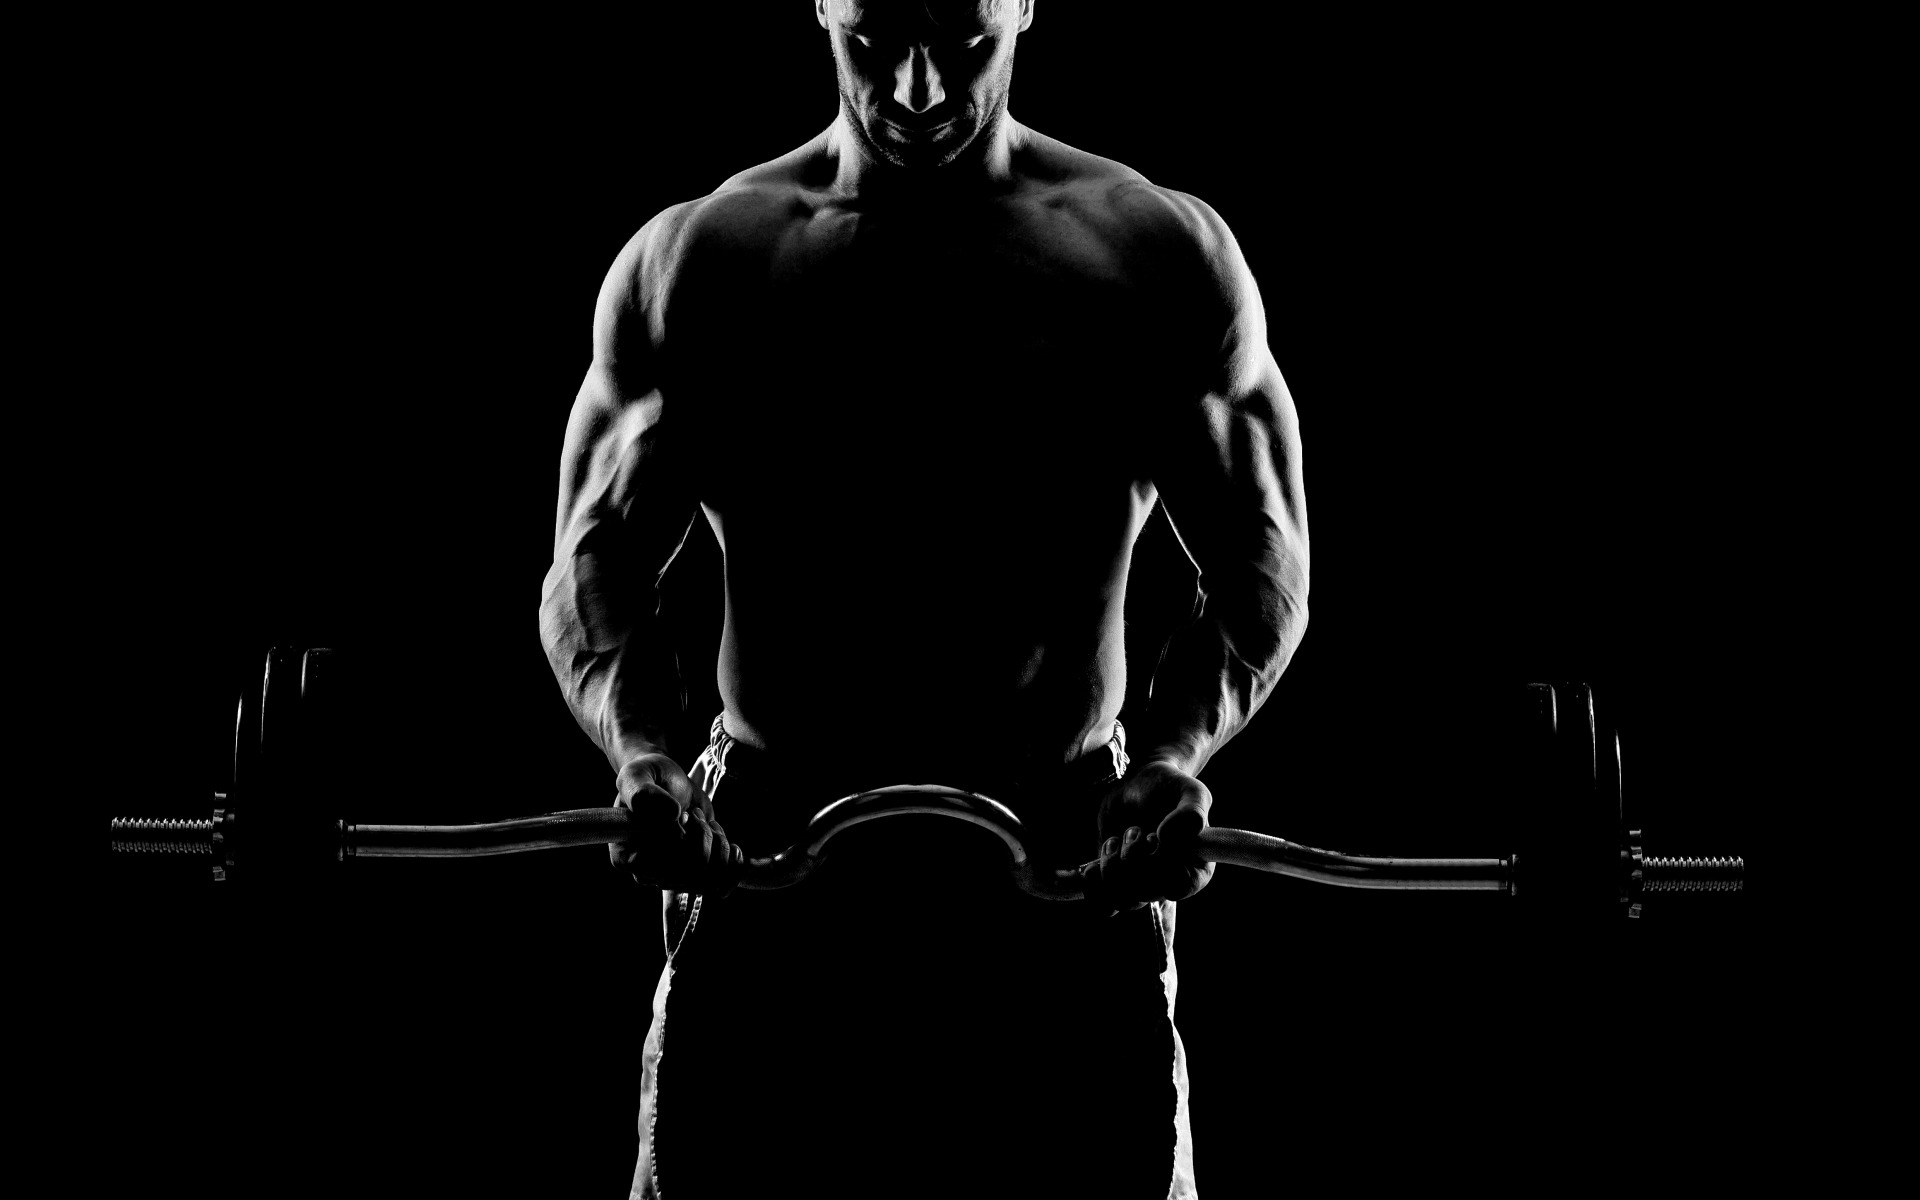
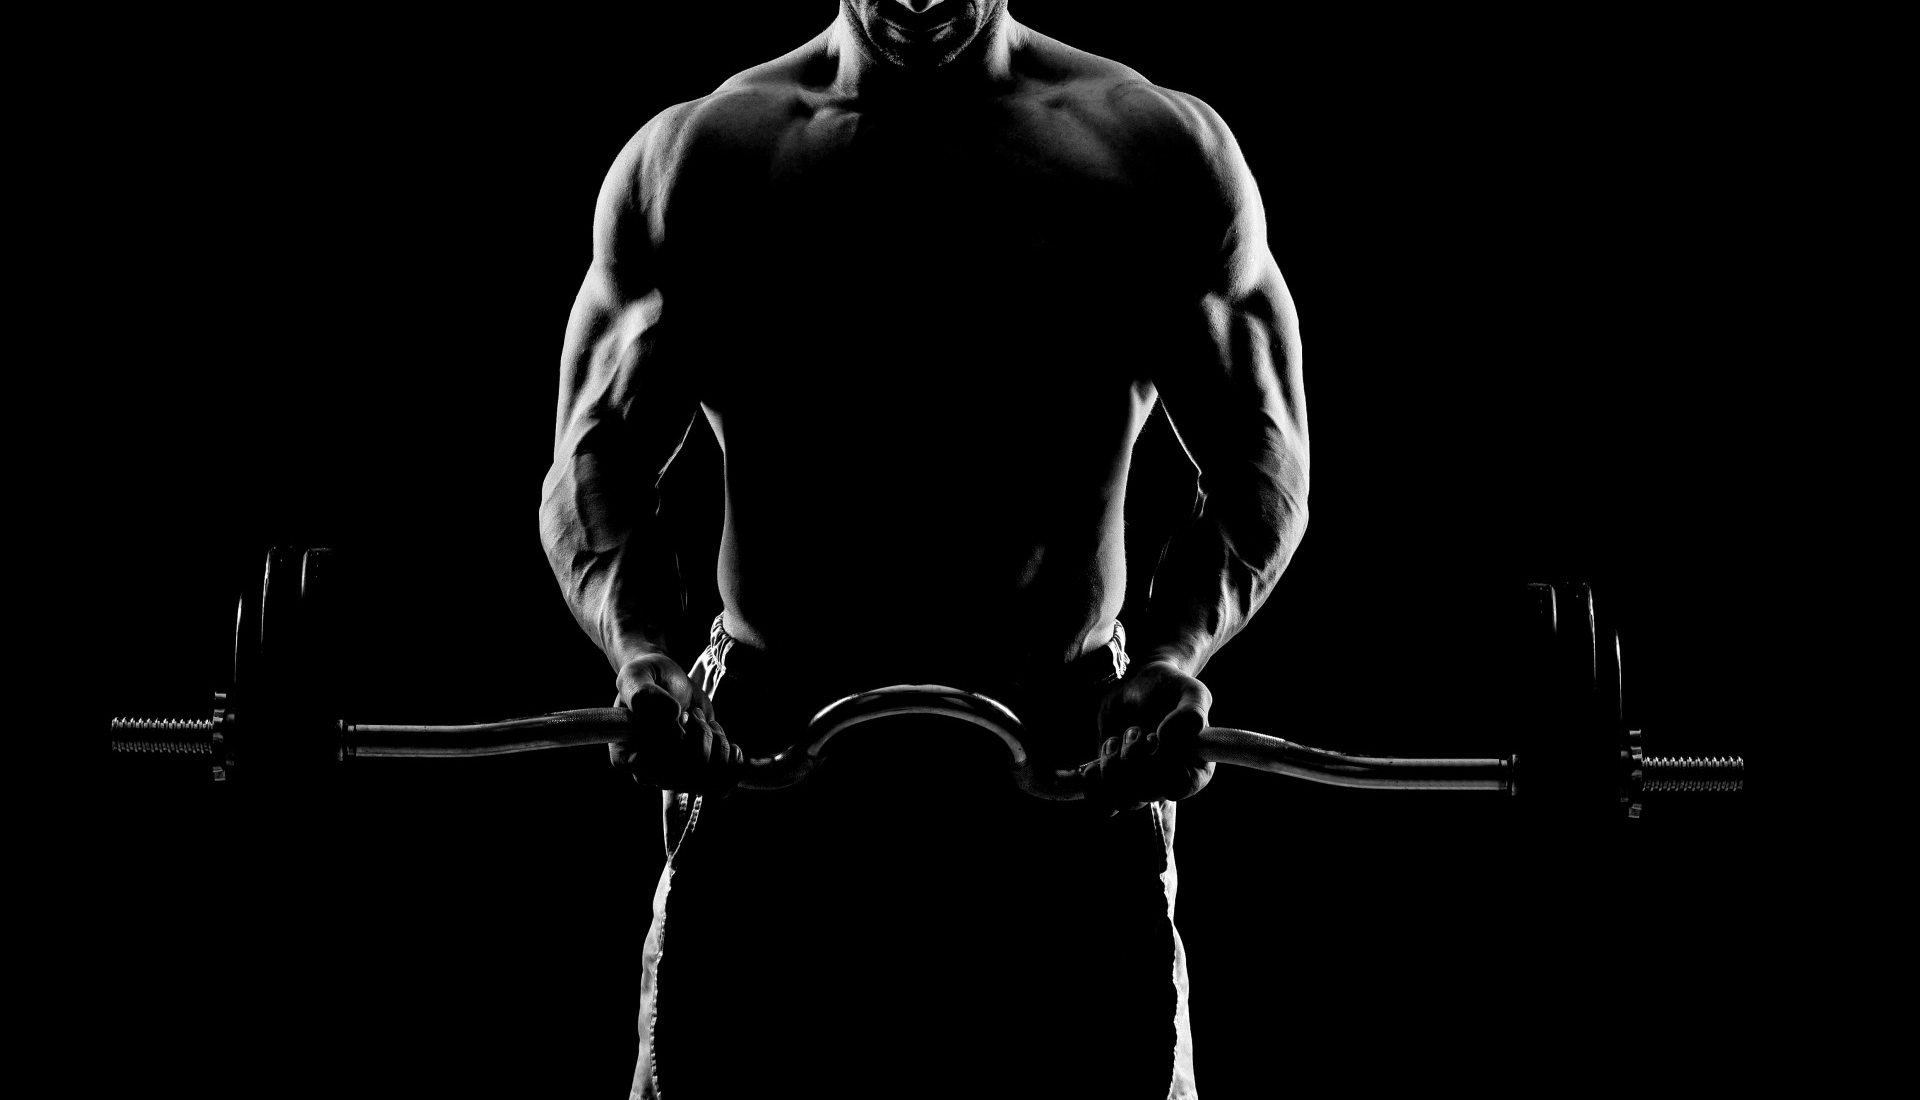
redesign

diff --git a/css/my.css b/css/my.css
@@ -1,6 +1,6 @@
 .bg-header {
   background-color: #151515;
-  background-image: url(../images/collagen/bodybuilder-new2.jpg);
+  background-image: url(../images/collagen/bodybuilder-new23.jpg);
   background-repeat: no-repeat;
   /*background-position:  -150px top;*/
   background-position: center;
@@ -122,7 +122,7 @@
   color: #fff;
 }
 .list-who-needs > li {
-  font-size: 20px;
+  font-size: 18px;
   margin-bottom: 15px;
 }
 
@@ -143,7 +143,7 @@
   color: #fff;
 }
 .list-benefist > li {
-  font-size: 20px;
+  font-size: 18px;
   margin-bottom: 15px;
 }
 
@@ -205,9 +205,6 @@
     top: -10%;
     left: 0;
   }
-  .section-about {
-    padding: 450px 0 60px !important;
-  }
   .bg-who-needs {
     background-color: #111;
     background-image: url(../images/collagen/body2.jpg);
@@ -245,13 +242,14 @@
     display: block;
     position: fixed;
     z-index: 2000;
-    right: 15px;
+    left: 15px;
   }
   .fixed-button {
     bottom: 20px;
   }
   .fixed-button2 {
-    bottom: 75px;
+    bottom: 20px;
+    left: 75px;
   }
   .fixed-button a,
   .fixed-button2 a {

diff --git a/css/style.css b/css/style.css
@@ -399,13 +399,13 @@ h6, .h6 {
 }
 .scrollup--fixed {
 	position: fixed;
-	right: 30px;
+	right: 15px;
 	bottom: -60px;
 	z-index: 999;
 	box-shadow: 0 2px 2px 0 rgba(0,0,0,.14), 0 1px 5px 0 rgba(0,0,0,.12), 0 3px 1px -2px rgba(0,0,0,.2);
 }
 .scrollup--fixed.show {
-	bottom: 30px;
+	bottom: 15px;
 }
 .scrollup i {
 	color: #fff;

diff --git a/index.php b/index.php
@@ -69,8 +69,8 @@
                 <h3 class="heading primary-color header-price fz-60 "> 9500〒</h3>
               </div>
               <div class="col-sm-5">
-                <img src="images/collagen/banka1.png" class="banka1">
-                <img src="images/collagen/banka2.png" class="banka2">
+                <!-- <img src="images/collagen/banka1.png" class="banka1"> -->
+                <img src="images/collagen/banka2.png" class="banka2- float-sm-right">
               </div>
             </div>
           </div>
@@ -92,6 +92,18 @@
 
       <?php unset($_SESSION['notifications']); ?>
 
+      <!-- CONTACT BUTTONS -->
+      <div class="fixed-button">
+        <a href="whatsapp://send?phone=+77759557171" target="_top" data-attr="whatsapp_call">
+          <img src="images/whatsapp-logo.png">
+        </a>
+      </div>
+      <div class="fixed-button2">
+        <a href="tel:+77759557171" target="_top" data-attr="phone">
+          <img src="images/phone-receiver.png">
+        </a>
+      </div>
+
       <!-- OUR PRODUCTS -->
       <section class="section pt-8 pb-8">
         <div class="container-fluid">
@@ -108,13 +120,9 @@
                   <a href="#">
                     <img class="img-responsive" src="images/collagen/banka1.png" alt="" />
                   </a>
-                  <div class="actions">
-                    <div class="action action-view-detail">
-
-                    </div>
-                    <div class="action action-add-to-cart">
-                      <a href="#" class="button-add-to-cart" data-toggle="modal" data-target="#appModal">Заказать</a>
-                    </div>
+                  <!-- <div class="actions"> <div class="action action-view-detail"> </div> <div class="action action-add-to-cart"> <a href="#" class="button-add-to-cart" data-toggle="modal" data-target="#appModal">Заказать</a> </div> </div> -->
+                  <div class="text-center">
+                    <button type="button" class="btn-app mt-2" data-toggle="modal" data-target="#appModal">Заказть</button>
                   </div>
                 </div>
                 <div class="product-info">
@@ -131,13 +139,9 @@
                   <a href="#">
                     <img class="img-responsive" src="images/collagen/banka2.png" alt="" />
                   </a>
-                  <div class="actions">
-                    <div class="action action-view-detail">
-
-                    </div>
-                    <div class="action action-add-to-cart">
-                      <a href="#" class="button-add-to-cart" data-toggle="modal" data-target="#appModal">Заказать</a>
-                    </div>
+                  <!-- <div class="actions"> <div class="action action-view-detail"> </div> <div class="action action-add-to-cart"> <a href="#" class="button-add-to-cart" data-toggle="modal" data-target="#appModal">Заказать</a> </div> </div> -->
+                  <div class="text-center">
+                    <button type="button" class="btn-app mt-2" data-toggle="modal" data-target="#appModal">Заказть</button>
                   </div>
                 </div>
                 <div class="product-info">
@@ -154,13 +158,9 @@
                   <a href="#">
                     <img class="img-responsive" src="images/collagen/banka1.png" alt="" />
                   </a>
-                  <div class="actions">
-                    <div class="action action-view-detail">
-
-                    </div>
-                    <div class="action action-add-to-cart">
-                      <a href="#" class="button-add-to-cart" data-toggle="modal" data-target="#appModal">Заказать</a>
-                    </div>
+                  <!-- <div class="actions"> <div class="action action-view-detail"> </div> <div class="action action-add-to-cart"> <a href="#" class="button-add-to-cart" data-toggle="modal" data-target="#appModal">Заказать</a> </div> </div> -->
+                  <div class="text-center">
+                    <button type="button" class="btn-app mt-2" data-toggle="modal" data-target="#appModal">Заказть</button>
                   </div>
                 </div>
                 <div class="product-info">
@@ -177,13 +177,9 @@
                   <a href="#">
                     <img class="img-responsive" src="images/collagen/banka2.png" alt="" />
                   </a>
-                  <div class="actions">
-                    <div class="action action-view-detail">
-
-                    </div>
-                    <div class="action action-add-to-cart">
-                      <a href="#" class="button-add-to-cart" data-toggle="modal" data-target="#appModal">Заказать</a>
-                    </div>
+                  <!-- <div class="actions"> <div class="action action-view-detail"> </div> <div class="action action-add-to-cart"> <a href="#" class="button-add-to-cart" data-toggle="modal" data-target="#appModal">Заказать</a> </div> </div> -->
+                  <div class="text-center">
+                    <button type="button" class="btn-app mt-2" data-toggle="modal" data-target="#appModal">Заказть</button>
                   </div>
                 </div>
                 <div class="product-info">
@@ -231,7 +227,7 @@
                   <img src="images/standarts/haccp2.png" class="img-responsive">
                 </li> -->
                 <li class="nav-item mb-2">
-                  <img src="images/standarts/kap3.png" class="img-responsive">
+                  <img src="images/standarts/kap2.png" class="img-responsive">
                 </li>
                 <li class="nav-item mb-2">
                   <img src="images/standarts/gmo2.png" class="img-responsive">
@@ -251,7 +247,7 @@
       <!-- WHY YOU DO YOU NEED COLLAGEN? -->
       <section class="section pt-8 pb-8 bg-black">
         <div class="container">
-          <h2 class="text-uppercase- text-center mb-5 fz-60 primary-color">Чем полезен коллаген?</h2>
+          <h2 class="text-uppercase fz-50- text-center mb-5 primary-color">Чем полезен коллаген?</h2>
           <div class="row">
             <div class="col-sm-6 col-lg-4">
               <div class="box-icon style-1 text-center">
@@ -353,7 +349,7 @@
         <div class="container">
           <div class="row pt-8 pb-8">
             <div class="col-sm-12 col-lg-8">
-              <h3 class="text-uppercase- fz-58 primary-color"> Для кого нужен коллаген?</h3>
+              <h2 class="text-uppercase fz-50- primary-color"> Для кого нужен коллаген?</h2>
               <ul class="list-who-needs">
                 <li><span class="primary-color"><i class="fa fa-check"></i></span> Говяжий коллаген предназначен в первую очередь для регулировки режима питания <span class="primary-color">спортсменов</span> при сильных нагрузках на связки и суставы, при которых наблюдается ускорение процессов обмена веществ</li>
                 <li><span class="primary-color"><i class="fa fa-check"></i></span> Способствует естественному сбросу лишнего веса при дозеровке от 25 гр. с небольшой физ. нагрузкой</li>
@@ -386,7 +382,7 @@
               </div>
             </div>
             <div class="col-sm-12 col-lg-6">
-              <h2 class="fz-52 primary-color">Преимущества нашего продукта</h2>
+              <h2 class="text-uppercase fz-50- primary-color">Преимущество нашего продукта</h2>
               <ul class="list-benefist">
                 <li><span class="primary-color"><i class="fa fa-check"></i></span> 100% натуральный, без ГМО</li>
                 <li><span class="primary-color"><i class="fa fa-check"></i></span> Витамины A, B12, D, C</li>
@@ -443,7 +439,7 @@
           <div class="container">
             <div class="row">
               <div class="col-sm-8 offset-sm-2">
-                <h3 class="text-uppercase- text-center heading mb-5 white primary-color">Отзывы</h3>
+                <h3 class="text-uppercase text-center fz-50- mb-5 white primary-color">Отзывы</h3>
               </div>
               <div class="col-sm-12">
                 <div class="testimonials-slider" data-auto-play="true" data-desktop="1" data-laptop="1" data-tablet="1" data-mobile="1">
@@ -490,7 +486,7 @@
           <div class="row">
             <div class="col-sm-12 col-lg-12">
               <div class="mt-3"></div>
-              <h3 class="heading white fz-50 fw-normal text-center"> Почему выгодно покупать у нас?</h3>
+              <h3 class="text-uppercase white fz-50- text-center"> Почему выгодно покупать у нас?</h3>
               <div class="mb-4"></div>
             </div>
             <div class="col-6 col-sm-4 col-lg-4">
@@ -550,8 +546,26 @@
         <div class="container">
           <div class="row">
             <div class="col-sm-12 col-md-6">
-              <h3 class="heading fw-normal fz-40 mb-8"> Часто задаваемые вопросы</h3>
+              <h3 class="text-uppercase heading fw-normal fz-40 mb-8"> Часто задаваемые вопросы</h3>
               <div id="accordion" class="accordion">
+                <div class="accordion-section">
+                  <div class="accordion-header" id="headingZero">
+                    <h6 class="accordion-title">
+                      <div data-toggle="collapse" data-target="#collapseZero" aria-expanded="true" aria-controls="collapseZero">Какие есть вкусы?</div>
+                      <span class="accordion-icon"></span>
+                    </h6>
+                  </div>
+                  <div id="collapseZero" class="collapse show" aria-labelledby="headingZero" data-parent="#accordion">
+                    <div class="accordion-content">
+                      <ul>
+                        <li>Ванильный</li>
+                        <li>Шоколадный</li>
+                        <li>Банановый</li>
+                        <li>Клубничный</li>
+                      </ul>
+                    </div>
+                  </div>
+                </div>
                 <div class="accordion-section">
                   <div class="accordion-header" id="headingOne">
                     <h6 class="accordion-title">
@@ -559,7 +573,7 @@
                       <span class="accordion-icon"></span>
                     </h6>
                   </div>
-                  <div id="collapseOne" class="collapse show" aria-labelledby="headingOne" data-parent="#accordion">
+                  <div id="collapseOne" class="collapse" aria-labelledby="headingOne" data-parent="#accordion">
                     <div class="accordion-content">Продолжительность курса составляет не менее 3 месяцев.
                     Кожа. Ногти. Волосы. Ожоги. Восстановление после операций. Продолжительность курса должна быть такова, чтобы клетки этих тканей успели смениться новыми.
                     Хрящевая ткань одна из самых медленно возобновляемых. Это объясняется тем, что хрящи не имеют прямого капиллярного питания из кровотока. Хрящи получают питательные вещества только посредством осмоса и диффузии при омовения его синовиальной жидкостью. Омовения происходит при движении сустава, поэтому для нормальной регенерации хрящей и восстановление всего сустава обязательно нужна умеренная физическая активность.
@@ -644,7 +658,7 @@
                     <div class="col-md-12">
                       <input type="tel" name="phone" placeholder="Введите номер телефона*" minlength="5" maxlength="20" value="" required>
                     </div>
-                    <div class="col-md-12">
+                    <div class="col-md-12 text-center">
                       <button type="submit" class="btn-app mt-3">Отправить</button>
                     </div>
                   </div>
@@ -678,21 +692,45 @@
     <footer class="footer bg-black">
       <div class="footer-inner">
         <div class="container">
-          <div class="row">
-            <div class="col-sm-4 col-lg-7 col-md-6">
-              <div class="branding__logo">
-                <a href="./">
-                  <img src="images/collagen/logo.png" alt="Biotic" class="main-logo" />
-                </a>
+          <div class="row  pb-6">
+            <div class="col-md-12">
+              <div class="text-center">
+                <h2 class="text-uppercase white">Свяжитесь с нами</h2>
+                <div class="mb-2"></div>
+                <div class="branding__logo">
+                  <a href="./">
+                    <img src="images/collagen/logo.png" alt="Biotic" class="main-logo" />
+                  </a>
+                </div>
+                <div class="mb-2"></div>
               </div>
-              <div class="mb-4"></div>
-              <p>Адрес: Республика Казахстан, город Алматы, улица Толе би 286/2, офис 401.</p>
-              <div class="mb-2"></div>
             </div>
-            <div class="col-sm-4 col-lg-7 col-md-6">
-              <div class="phones">
-                <a href="tel:+77759557171" target="_top" data-attr="phone"><i class="fa fa-phone"></i> 8 (775) 955 71 71</a>
-                <a href="whatsapp://send?phone=+77759557171" target="_top" data-attr="whatsapp_call"><i class="fa fa-whatsapp"></i> 8 (775) 955 71 71</a>
+            <div class="col-sm-4">
+              <div class="text-center-xs">
+                <h4 class="white mt-3"> Адрес</h4>
+                <div class="mb-3"></div>
+                <p class="fz-22">Республика Казахстан, город Алматы, улица Толе би 286/2, офис 401.</p>
+                <p class="heading fz-22 fw-normal"> <a class="primary-color" href="mailto:info@biotic.com">info@biotic.kz</a></p>
+              </div>
+            </div>
+            <div class="col-sm-4">
+              <div class="text-center-xs">
+                <h4 class="white mt-3"> Реквизиты</h4>
+                <div class="mb-3"></div>
+                <p class="fz-22">Компания &laquo;Biotic&raquo;</p>
+                <p>БИН: 880 820 301 961</p>
+                <p>ИИК: KZ1992618026D1071000</p>
+                <p>АО «Казкоммерцбанк» БИК: KZKOKZKX</p>
+              </div>
+            </div>
+            <div class="col-sm-4">
+              <div class="text-center-xs">
+                <h4 class="white mt-3"> Номера телефонов</h4>
+                <div class="mb-3"></div>
+                <div class="phones mx-auto">
+                  <a href="tel:+77759557171" target="_top" data-attr="phone"><i class="fa fa-phone"></i> 8 (775) 955 71 71</a>
+                  <a href="whatsapp://send?phone=+77759557171" target="_top" data-attr="whatsapp_call"><i class="fa fa-whatsapp"></i> 8 (775) 955 71 71</a>
+                </div>
               </div>
             </div>
           </div>
@@ -706,7 +744,7 @@
         <div class="container">
           <div class="row">
             <div class="col-sm-6">
-              <p class="mb-0"> Сайт зарезервирован компанией Biotic</p>
+              <p class="mb-0"> Сайт зарезервирован компанией &laquo;Biotic&raquo;</p>
             </div>
             <div class="col-sm-6">
               <div class="text-right text-center-sm">
